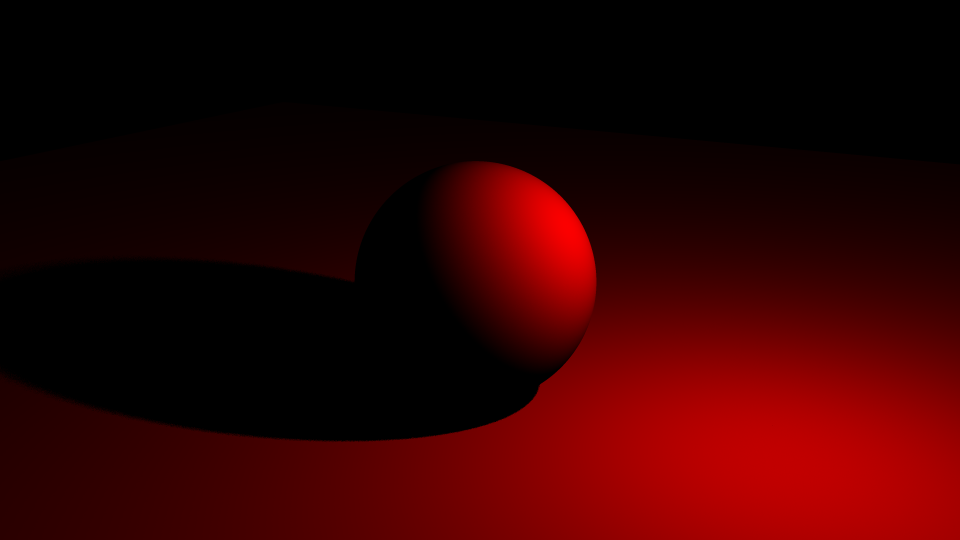
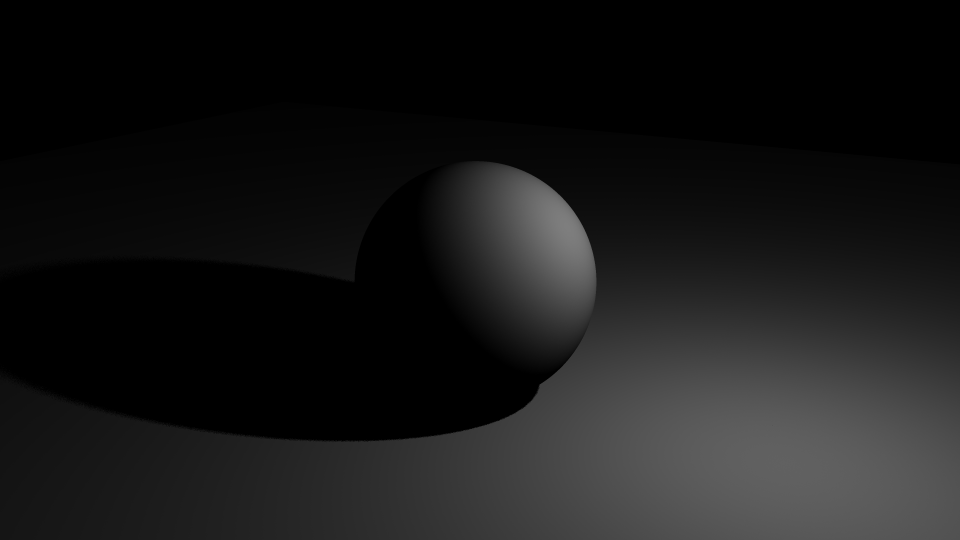
feat: make default material grey

diff --git a/src/crayg/src/sceneIO/read/usd/UsdMaterialReadCache.cpp b/src/crayg/src/sceneIO/read/usd/UsdMaterialReadCache.cpp
@@ -59,7 +59,7 @@ bool crayg::UsdMaterialReadCache::isUsdPreviewSurface(const pxr::TfToken &shader
 }
 std::shared_ptr<Material> UsdMaterialReadCache::createDefaultMaterial() {
     return std::make_shared<UsdPreviewSurface>("defaultMaterial",
-                                               Color(1, 0, 0));
+                                               Color::createGrey(0.5f));
 }
 UsdMaterialReadCache::UsdMaterialReadCache() {
     materialCache[pxr::SdfPath()] = createDefaultMaterial();
